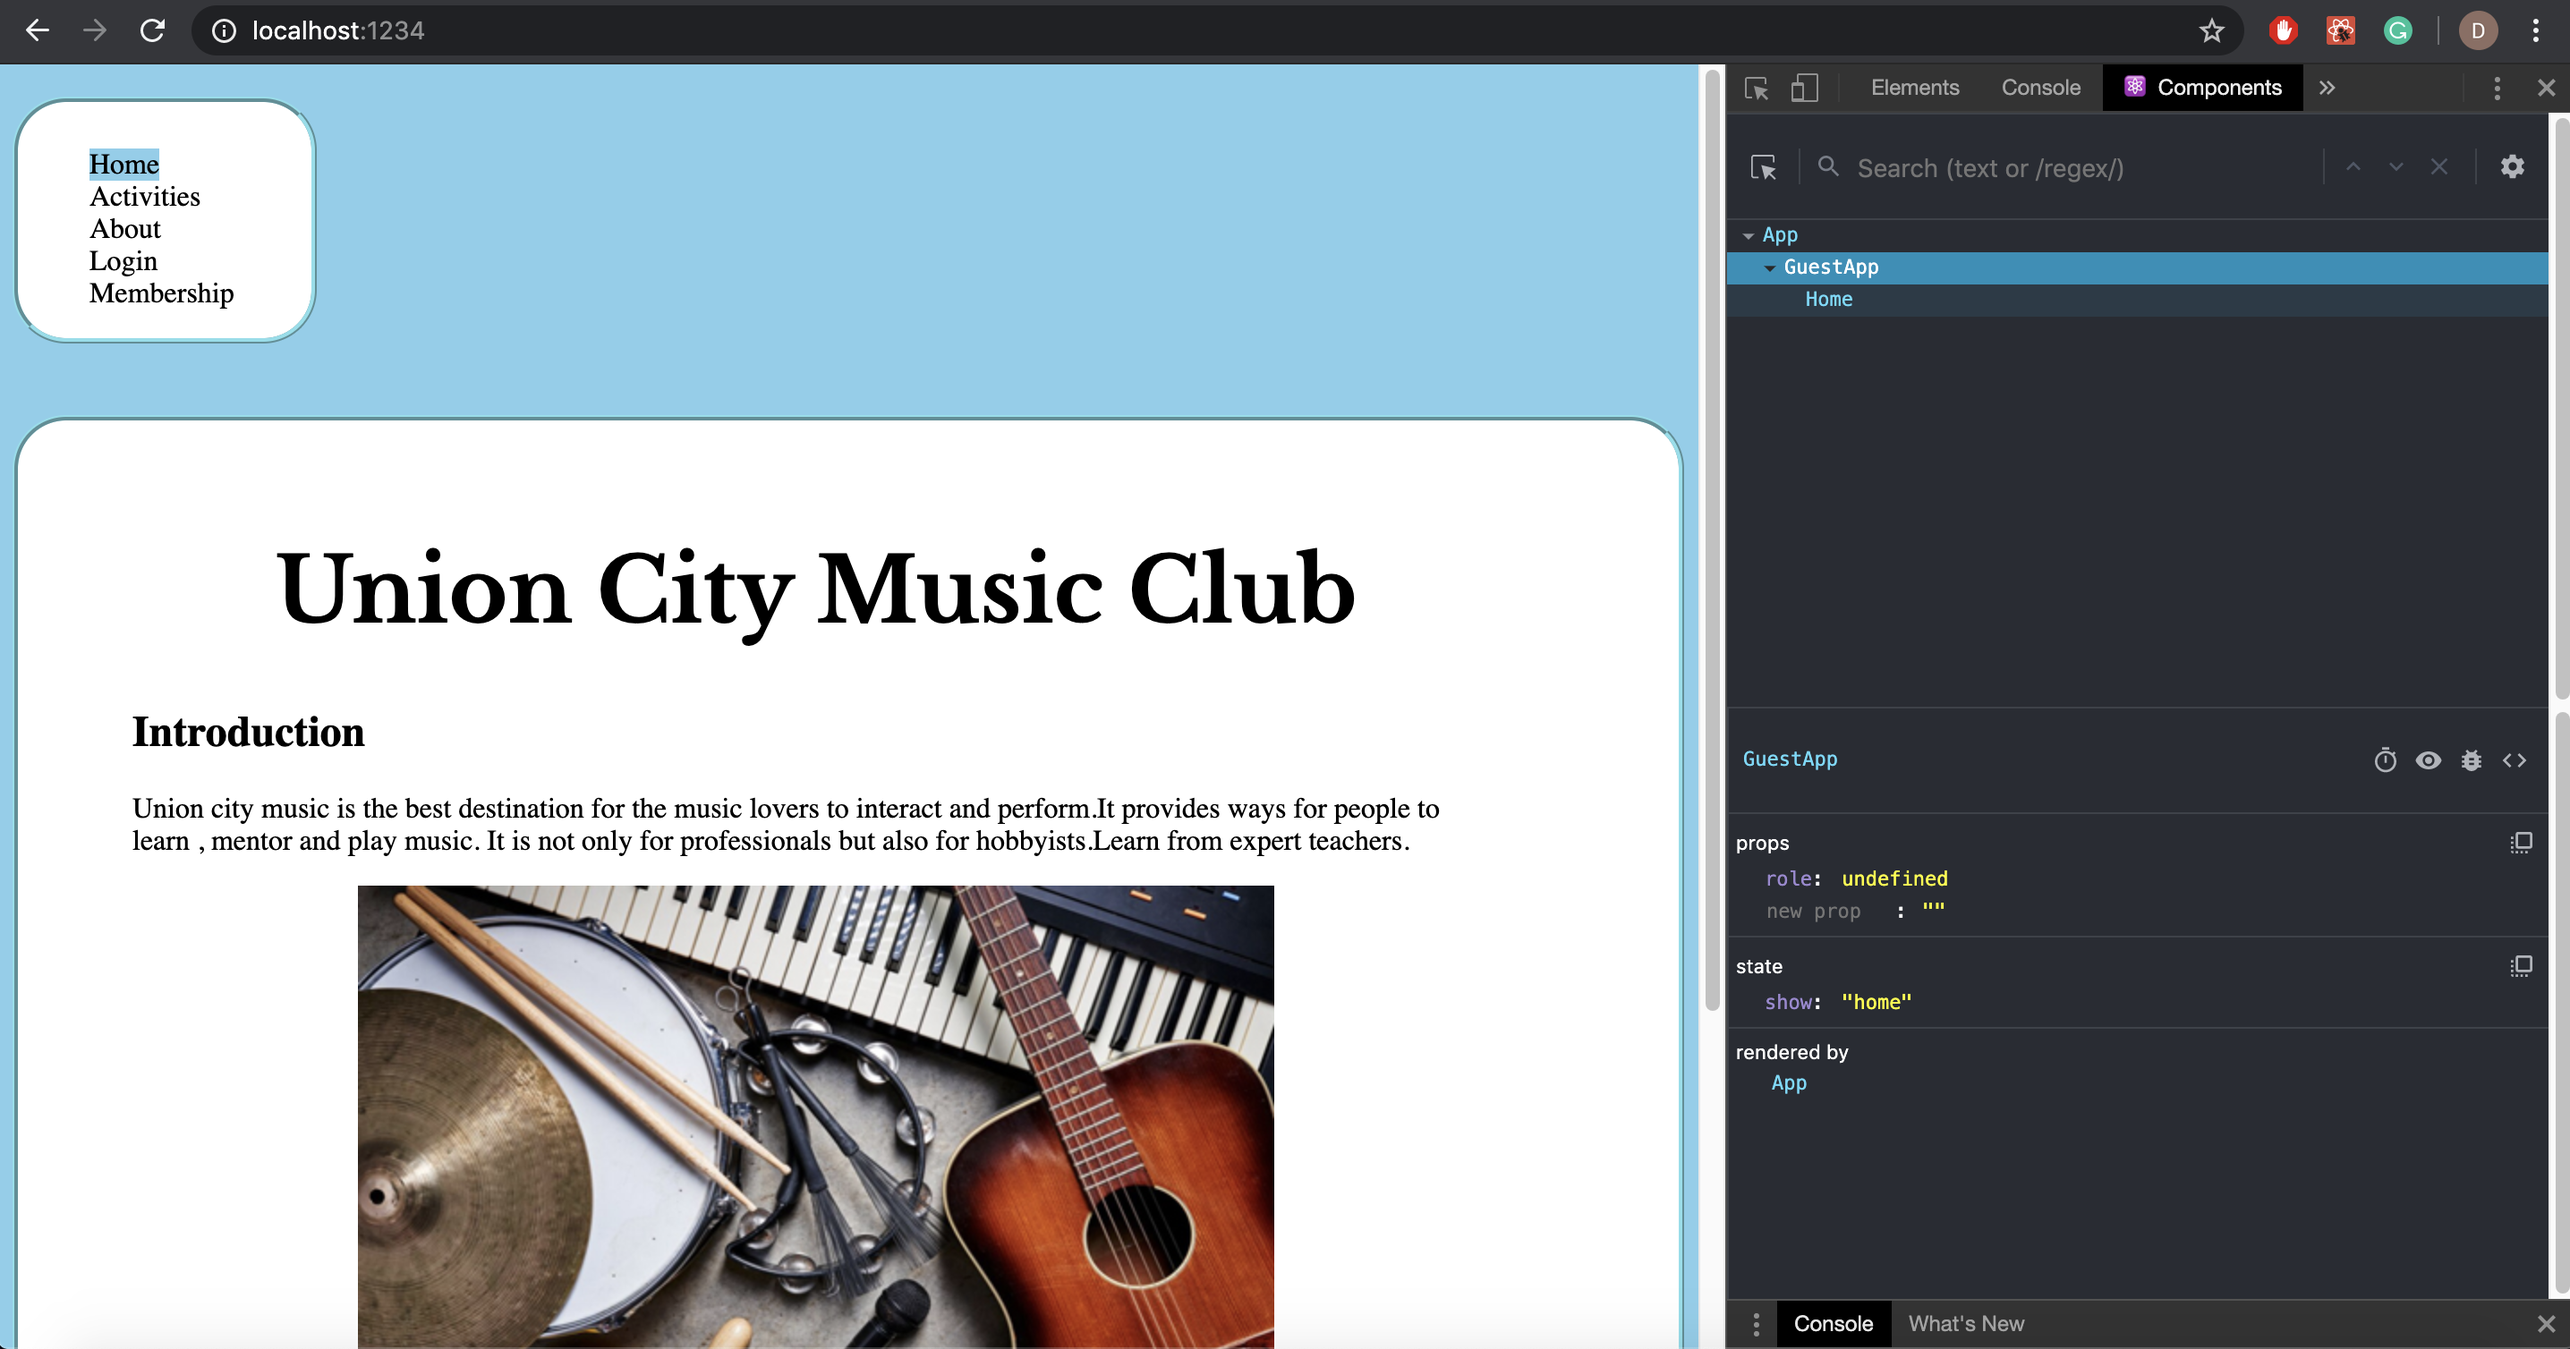
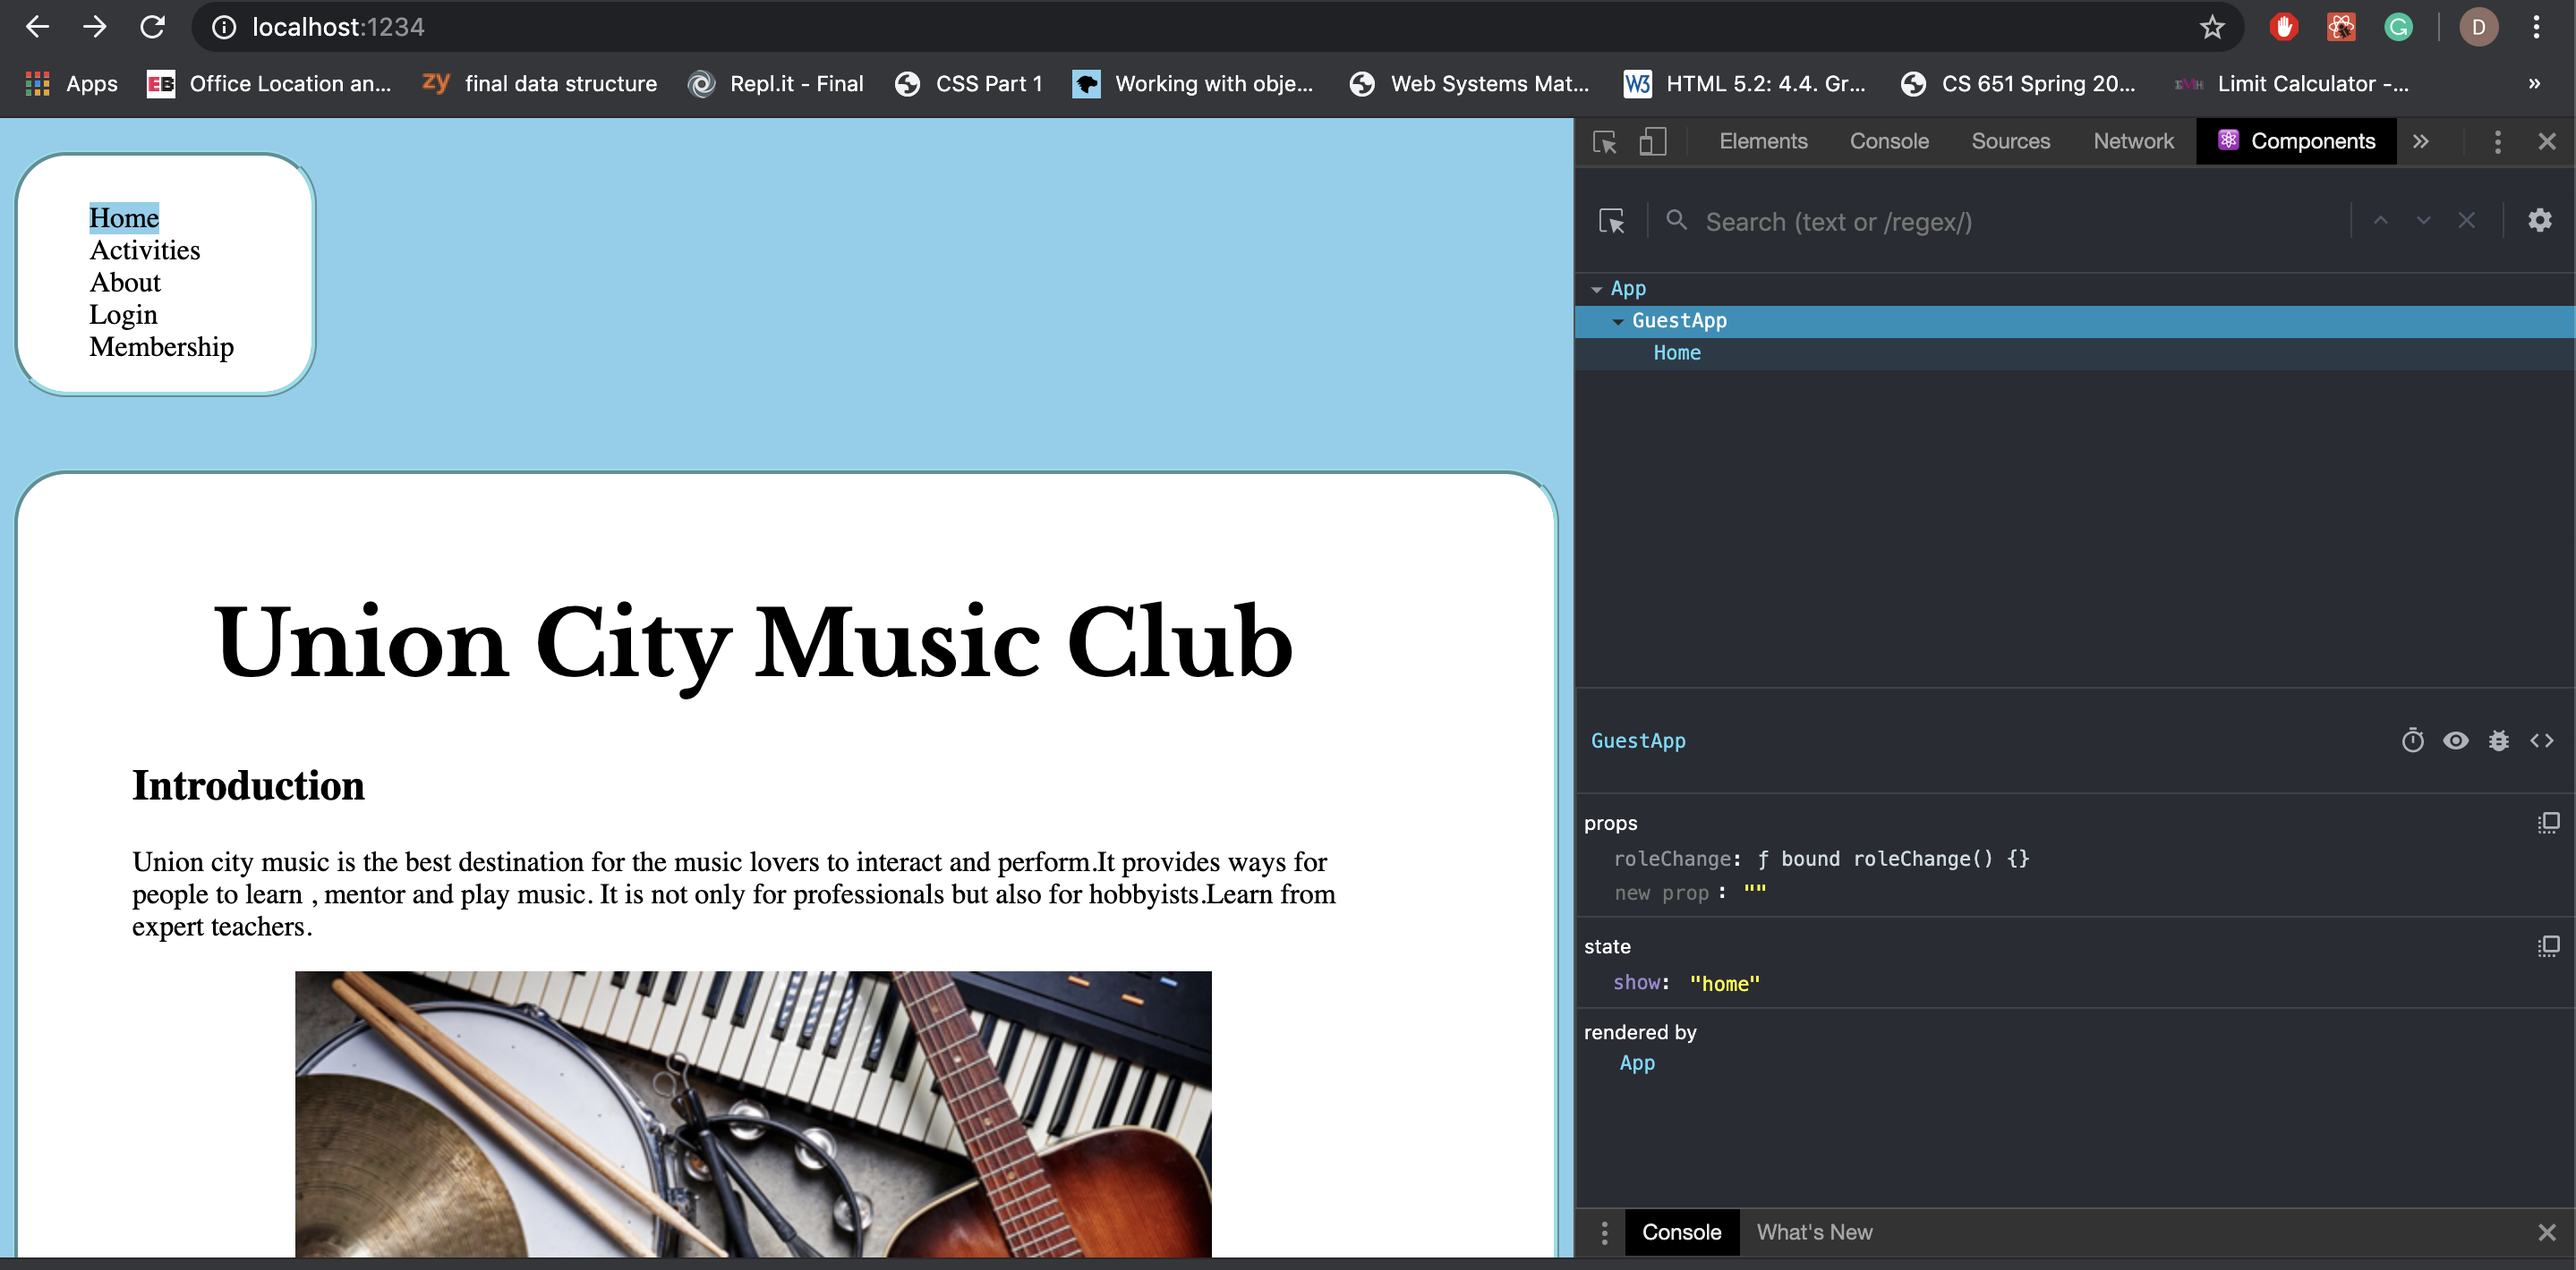
modified few code snippet

diff --git a/ReactClub/index.js b/ReactClub/index.js
@@ -11,13 +11,12 @@ class App extends React.Component {
 	constructor(props) {
 		super(props);
 		this.roleChange = this.roleChange.bind(this);
-        this.state = {role: "guest"}; 
-        this.userInfo = null;// We will have "user" and "admin" roles too.
+        this.state = {role: "guest", userInfo:{}}; 
+        //this.userInfo = null;// We will have "user" and "admin" roles too.
     }
 
     roleChange(roleVal, userInfo) {
-     	this.setState({role: roleVal})
-     	this.userInfo = userInfo;
+     	this.setState({role: roleVal, userInfo:userInfo});
      	console.log(userInfo)
     }
     // Renders component based on current state and props
@@ -25,13 +24,13 @@ class App extends React.Component {
     let contents = null;
         switch (this.state.role) {
             case "member":
-                contents = <MemberApp role={this.state.member} roleChange={this.roleChange}/>;
+                contents = <MemberApp roleChange={this.roleChange}/>;
                 break;
             case "admin":
-                contents = <AdminApp role={this.state.admin} roleChange={this.roleChange}/>;
+                contents = <AdminApp  roleChange={this.roleChange}/>;
                 break;
             case "guest":
-                contents = <GuestApp role={this.state.guest} roleChange={this.roleChange}/>;
+                contents = <GuestApp  roleChange={this.roleChange}/>;
                 break;
             default:
                 contents = <h2>Warning something went wrong!!!</h2>;

diff --git a/ReactClub/adminApp.js b/ReactClub/adminApp.js
@@ -27,7 +27,7 @@ class AdminApp extends React.Component {
 	logoutHandler(event)
 	{
 		this.setState({show:"logout"});
-		this.roleChange("guest"," ");
+		this.roleChange("guest",null);
 
 	}
 	
@@ -49,10 +49,10 @@ class AdminApp extends React.Component {
    let contents = null;
 	switch (this.state.show) {
             case "home":
-                contents = <HomeClub role={this.state.home}/>;
+                contents = <HomeClub />;
                 break;
             case "about":
-                contents = <AboutClub role={this.state.about}/>;
+                contents = <AboutClub />;
                 break;
             default:
                 contents = <h2>This page is not implemented yet!!!</h2>;

diff --git a/ReactClub/memberApp.js b/ReactClub/memberApp.js
@@ -26,7 +26,7 @@ class MemberApp extends React.Component {
 	logoutHandler(event)
 	{
 		this.setState({show:"logout"});
-		this.roleChange("guest"," ");
+		this.roleChange("guest",null);
 	}
 	
 	membersOnlyHandler(event)
@@ -48,10 +48,10 @@ class MemberApp extends React.Component {
 		let contents = null;
 		switch (this.state.show) {
 			case "home":
-			contents = <HomeClub role={this.state.home}/>;
+			contents = <HomeClub />;
 			break;
 			case "about":
-			contents = <AboutClub role={this.state.about}/>;
+			contents = <AboutClub />;
 			break;
 			default:
 			contents = <h2>This page is not implemented yet!!!</h2>;

diff --git a/README.md b/README.md
@@ -137,10 +137,10 @@ class GuestApp extends React.Component {
 	let contents = null;
 	switch (this.state.show) {
             case "home":
-                contents = <HomeClub role={this.state.home}/>;
+                contents = <HomeClub/>;
                 break;
             case "about":
-                contents = <AboutClub role={this.state.about}/>;
+                contents = <AboutClub/>;
                 break;
             default:
                 contents = <h2>This page is not implemented yet!!!</h2>;
@@ -159,12 +159,6 @@ GuestApp home state
 GuestApp about state
 
 ![ScreenShot](images/ScreenShot40.png)
-
-GuestApp login state
-
-![ScreenShot](images/ScreenShot41.png)
-
-### (c)
 
 
 ## Question 3
@@ -193,22 +187,25 @@ Login
 
 ### (b)
 
-``` function added to the class App in index.js
-constructor(props) {
+roleChange(roleVal, userInfo) dunction is added to set the role 
+
+``` index.js 
+   constructor(props) {
 		super(props);
 		this.roleChange = this.roleChange.bind(this);
-        this.state = {role: "guest"}; 
-        this.userInfo = null;// We will have "user" and "admin" roles too.
+        this.state = {role: "guest", userInfo:{}}; 
+        // We will have "user" and "admin" roles too.
     }
 
     roleChange(roleVal, userInfo) {
-     	this.setState({role: roleVal})
-     	this.userInfo = userInfo;
+     	this.setState({role: roleVal, userInfo:userInfo});
      	console.log(userInfo)
     }
 ```
 
-``` code in Login.js to handle login button click
+code to handle login button click
+
+``` Login.js code to handle login button click
 
 import React from "react";
 import ReactDOM from "react-dom";
@@ -226,7 +223,7 @@ class Login extends React.Component {
 
  loginParse() {
 	let userinfo = {"name": "Dhanashree Kamath K", "NetID": "hs4947"};
-	if(email.value == "admin@email.org")
+	 if(email.value == "admin@email.org")
       	this.roleChange("admin", userinfo)
      else if (email.value == "member@email.org")  
         this.roleChange("member", userinfo)
@@ -259,12 +256,12 @@ export default Login;
 
 
 ### (c)
-
-``` code snippet od adminApp.js to logout 
+Code snippet to handle logout in adminApp.js. Following function is called when logout option is clicked.
+```adminApp.js 
 logoutHandler(event)
 	{
 		this.setState({show:"logout"});
-		this.roleChange("guest"," ");
+		this.roleChange("guest",null);
 
 	}
 ```
@@ -277,20 +274,22 @@ logoutHandler(event)
            "dates": ["January 2nd","February 14th","March 12th", "March 17th", "April 15th", "April 26th",
                      "June 9th", "June 24rd", "July 9th", "July 25",
                      "August 8th", "August 25th"],
-           "image":"clubimages/KaraokeImg.jpg"},
+           "image":"KaraokeImg"},
          {"name": "Instrumental classes for kids",
           "dates": ["every monday and tuesday"],
-          "image":"clubimages/KidInstrument.jpg"},
+          "image":"KidInstrument"},
          {"name": "Vocal Classes", 
          "dates": ["every Saturday and Sunday"],
-          "image":"clubimages/VocalImage.jpg"},
+          "image":"VocalImage"},
           {"name": "Online Classes", 
          "dates": ["every Friday"],
-          "image":"clubimages/OnlineImg.jpg"}];
+          "image":"OnlineImg"}];
 ```
 
 ### (b)
+![ScreenShot](images/ScreenShot45.png)
 
+### (c)
 
 
 
